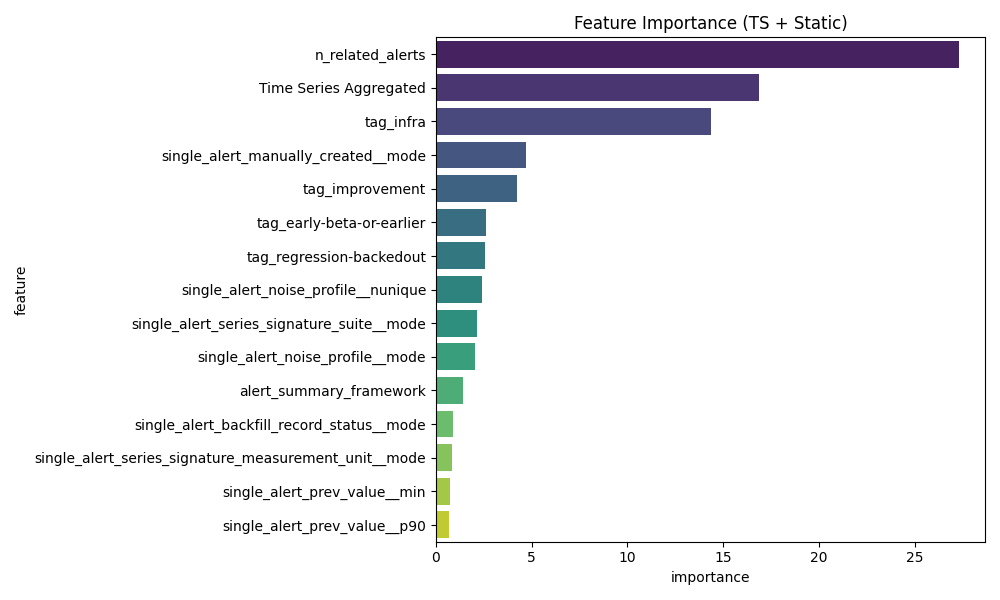
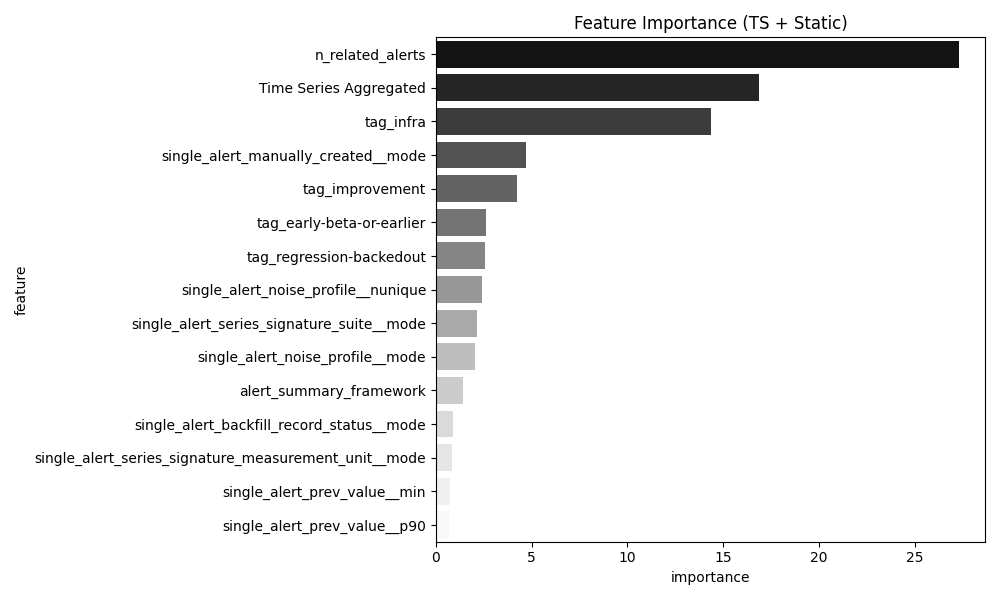
fix benchmark

Changed region(s): [[0.434, 0.06, 0.961, 0.9]]

diff --git a/benchmark.py b/benchmark.py
@@ -45,28 +45,43 @@ class ResourceMonitor(threading.Thread):
         self.cpu_readings = []
         self.ram_readings = []
         self.process = psutil.Process(os.getpid())
+        self.procs_cache = {self.process.pid: self.process}
 
     def run(self):
         self.process.cpu_percent()
+
         while not self.stop_event.is_set():
             try:
-                children = self.process.children(recursive=True)
-                all_procs = [self.process] + children
+                current_children = self.process.children(recursive=True)
+                current_pids = {p.pid for p in current_children}
+
+                for p in current_children:
+                    if p.pid not in self.procs_cache:
+                        self.procs_cache[p.pid] = p
+                        # Premier appel pour initialiser le compteur de ce nouveau worker
+                        try:
+                            p.cpu_percent()
+                        except:
+                            pass
+
+                self.procs_cache = {pid: proc for pid, proc in self.procs_cache.items()
+                                    if pid == self.process.pid or pid in current_pids}
 
                 total_ram = 0
                 total_cpu = 0.0
 
-                for p in all_procs:
+                for pid, p in self.procs_cache.items():
                     try:
-                        total_ram += p.memory_info().rss / (1024 * 1024)
-                        total_cpu += p.cpu_percent(interval=None)
-                    except (psutil.NoSuchProcess, psutil.AccessDenied):
+                        if psutil.pid_exists(pid):
+                            total_ram += p.memory_info().rss / (1024 * 1024)
+                            total_cpu += p.cpu_percent(interval=None)
+                    except (psutil.NoSuchProcess, psutil.AccessDenied, psutil.ZombieProcess):
                         pass
 
                 self.cpu_readings.append(total_cpu)
                 self.ram_readings.append(total_ram)
 
-            except Exception:
+            except Exception as e:
                 pass
 
             time.sleep(self.interval)
@@ -207,7 +222,7 @@ class BenchmarkPipeline:
 
         plt.figure(figsize=(10, 6))
         sns.barplot(data=df_top.sort_values("importance", ascending=False).head(15), x="importance", y="feature",
-                    palette="viridis")
+                    palette="Greys_r")
         plt.title("Feature Importance (TS + Static)")
         plt.tight_layout()
         plt.savefig(f"{OUTPUT_DIR}/feature_importance_grouped.png")
